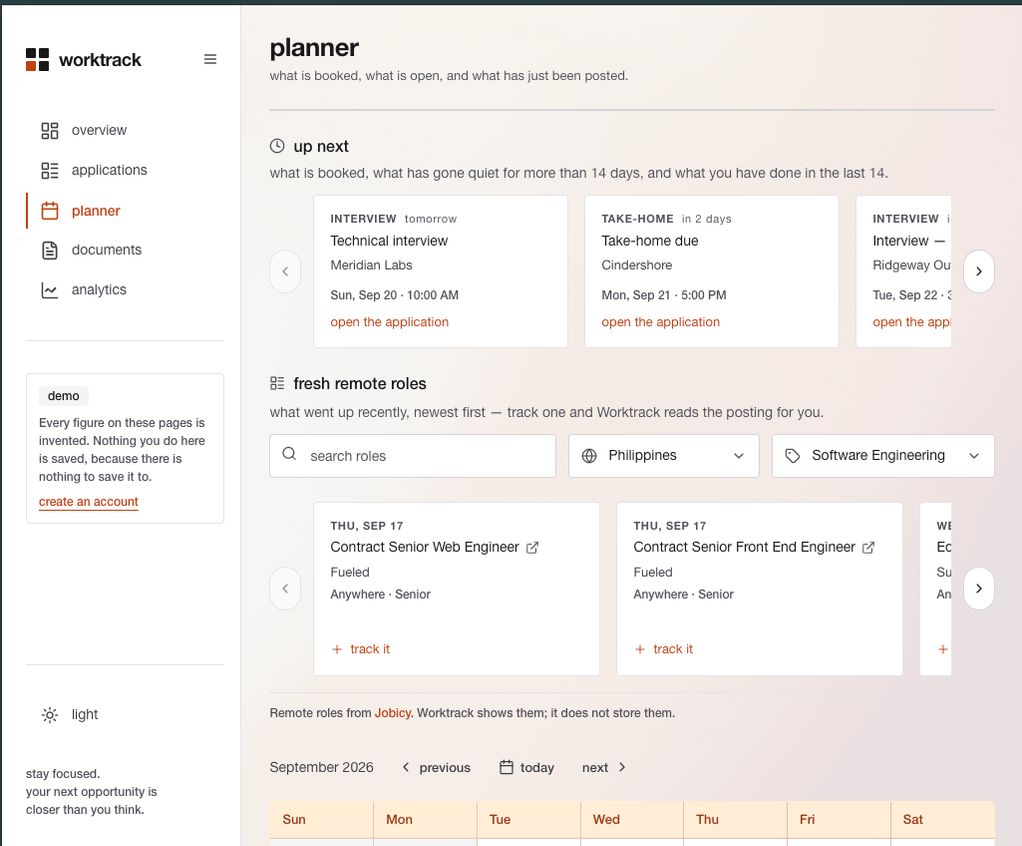
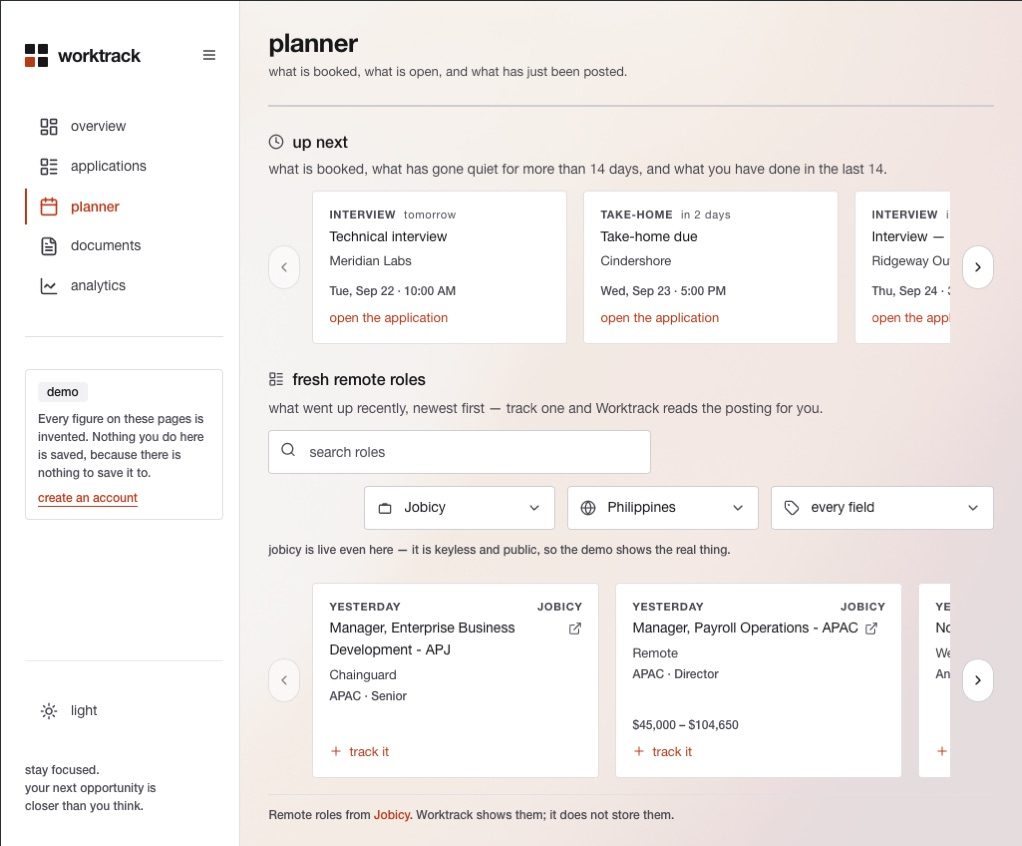
chore: recapture the planner screenshots, which no longer matched the screen
Gabe, 2026-09-21: "update the photos for planner page in the landing page
carousel", with ten captures.

THE SHIPPED ONES WERE SHOWING A FILTER ROW THE APP NO LONGER HAS. The rail
gained a board picker today and it sits AHEAD of the region dropdown, so the
landing page was arguing "no marketing claims, just things you can check" over
a picture of a screen that had moved -- which is the one kind of stale this
page cannot afford.

ALL EIGHT FILES, both themes across all four tiers, from the five widths that
were supplied. The 1367px pair is unused, exactly as it was for the original
capture session and for the same reason: it renders the same layout as the
1920px one, so it would be a second resolution of one picture rather than a
different picture.

DIMENSIONS MATCHED EXACTLY TO THE OTHER FOUR SCREENS -- 374x846, 766x846,
1022x846, 1600x779. The slides are `object-contain` in a fixed box, so a slide
with its own aspect would letterbox differently from its neighbours as the
carousel moved. The desktop tier is the 1920 capture resampled to the 1600 cap
the docblock sets, and the ratios agree to three decimals, so nothing is
stretched to get there. JPEG q80, as the rest of the tree is.

ONE CAPTURE NEEDED A CROP. The dark phone shot arrived 396px wide because it
kept an overlay scrollbar; the light one was 375 with none, and checking a
sibling -- dark/mobile/overview.jpg -- confirmed no other phone capture in this
[…]

diff --git a/src/components/landing/screens.ts b/src/components/landing/screens.ts
@@ -56,11 +56,28 @@
  * renders at roughly 1200, so 1600 is sharp at 1x and still reasonable on a
  * 2x display, while the 1920 originals pushed one visitor's download to 2.1MB
  * on a page whose whole argument is restraint. At 1600/q80 a desktop visitor
- * fetches about 1.3MB for all five slides in both themes, and the table text
+ * fetches about 1.4MB for all five slides in both themes, and the table text
  * is still crisp at 1:1 -- checked by cropping one at 2x, not assumed.
  *
  * Re-check with `du -sh public/screens` and the per-tier totals after any
- * recapture.
+ * recapture. Currently 3.7MB for the whole tree: 488K mobile, 800K tablet,
+ * 1.1MB laptop, 1.4MB desktop, both themes in each.
+ *
+ * PLANNER WAS RECAPTURED ON 2026-09-21, all eight files, because the screen
+ * changed underneath the old ones: the rail gained a board picker and it sits
+ * ahead of the region dropdown, so the shipped screenshots showed a filter row
+ * the app no longer has. The tier dimensions are matched EXACTLY to the other
+ * four screens (374x846, 766x846, 1022x846, 1600x779) -- the slides are
+ * `object-contain` in a fixed box, so an odd aspect would letterbox one slide
+ * differently from its neighbours as the carousel moved.
+ *
+ * ONE CAPTURE NEEDED A CROP AND IT IS WORTH SAYING WHICH. The dark phone shot
+ * arrived 396px wide because it kept an overlay scrollbar; the light one was
+ * 375 with none, and no other mobile capture in this tree has one. Cropped
+ * from the left to the page's own right edge, so the framing matches its
+ * siblings rather than the browser it was taken in. The DESKTOP tier's
+ * scrollbar is left alone -- every screen in this set has it, so removing it
+ * from one would be the inconsistency.
  */
 
 /** A viewport tier, narrowest first. `desktop` is the fallback and has no query. */
